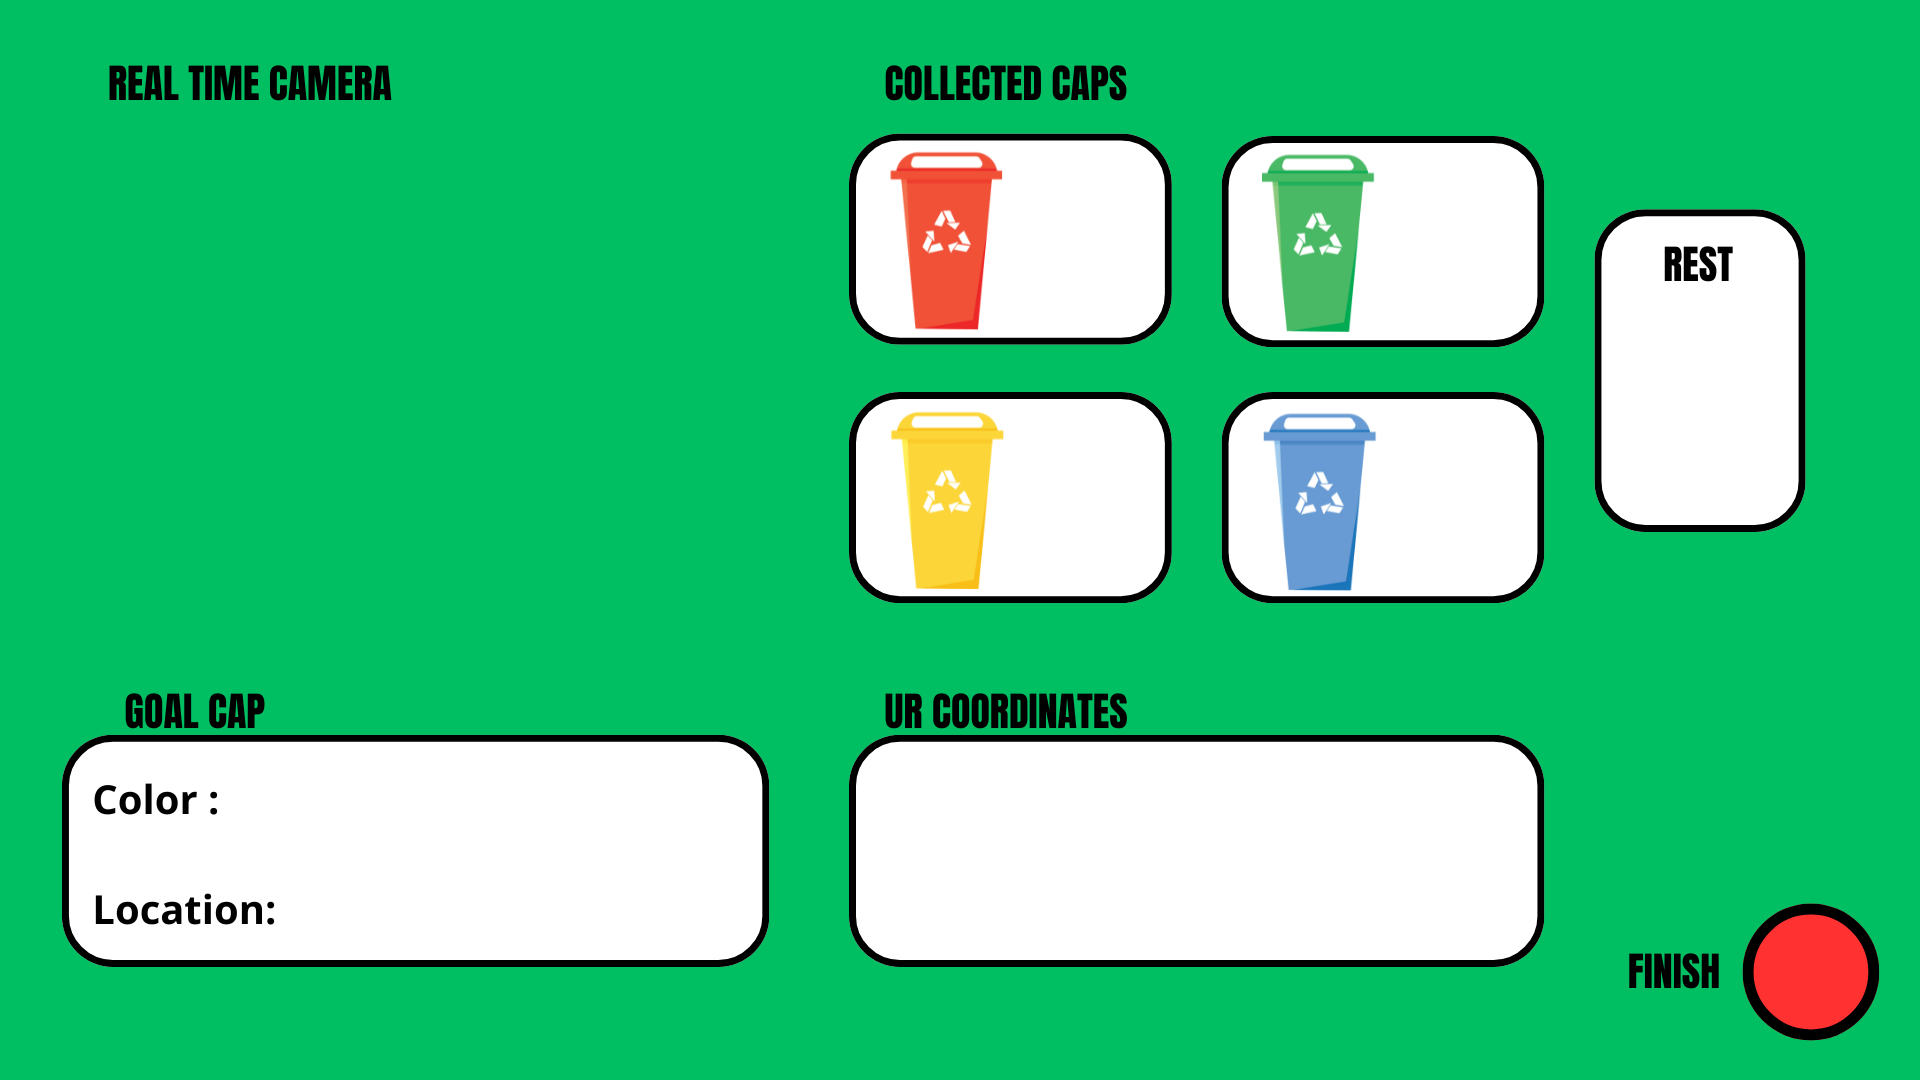
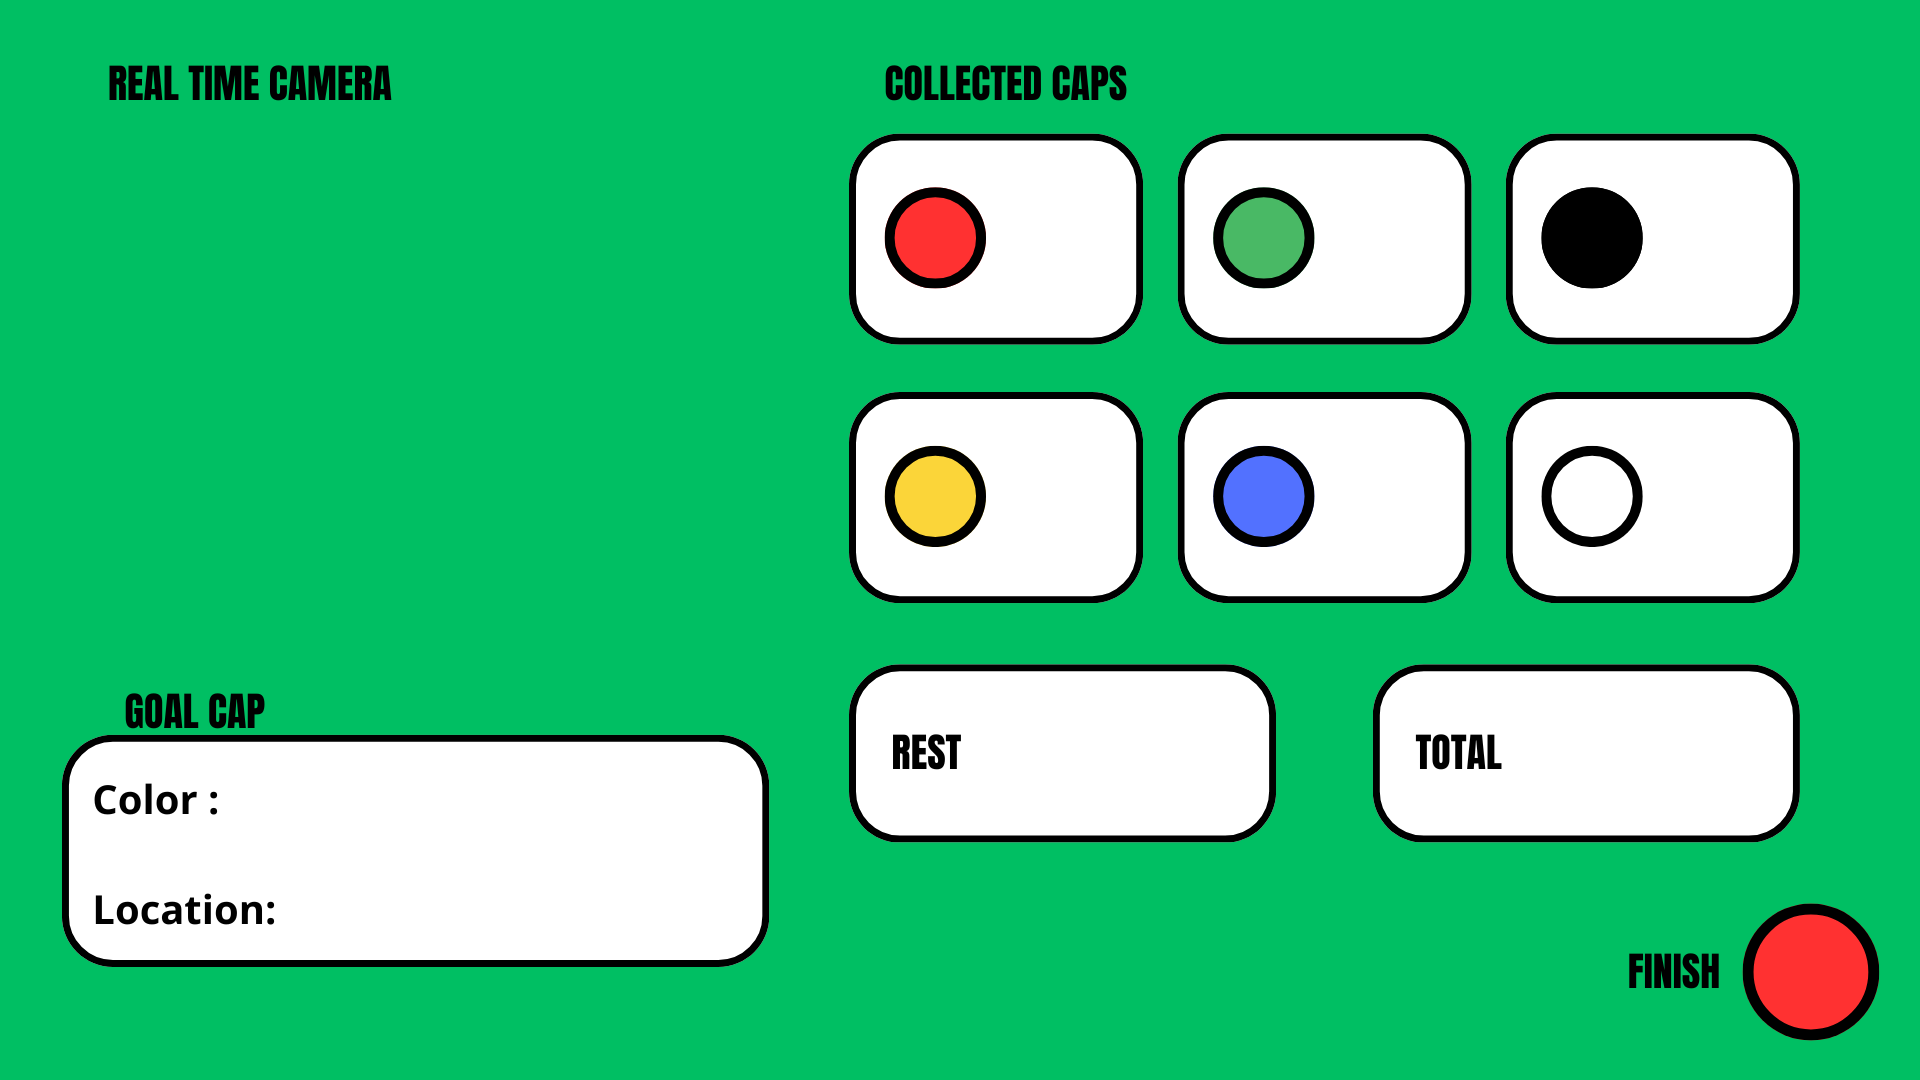
Cambios GUI

diff --git a/FinalCode/gui.py b/FinalCode/gui.py
@@ -1,18 +1,36 @@
 import sys
 import cv2
 from PyQt5.QtWidgets import (QApplication, QWidget, QStackedWidget, QLabel, QLineEdit)
-from PyQt5.QtGui import QPixmap, QPainter, QColor, QImage, QFont
+from PyQt5.QtGui import QPixmap, QPainter, QImage, QFont
 from PyQt5.QtCore import Qt, QTimer
 from typing import Tuple
 
 # ---- VALORES PREDEFINIDOS MODIFICABLES POR EL PROGRAMADOR ----
 valores = {
-    'box1': {'valor': 100, 'x': 1010, 'y': 185},
-    'box2': {'valor': 200, 'x': 1010, 'y': 425},
-    'box3': {'valor': 300, 'x': 1455, 'y': 185},
-    'box4': {'valor': 400, 'x': 1455, 'y': 425},
-    'boxColor': {'valor': 'Red', 'x': 240, 'y': 710}
+    'box1': {'valor': 0, 'x': 980, 'y': 185},
+    'box2': {'valor': 0, 'x': 980, 'y': 425},
+    'box3': {'valor': 0, 'x': 1295, 'y': 185},
+    'box4': {'valor': 0, 'x': 1295, 'y': 425},
+    'box5': {'valor': 0, 'x': 1610, 'y': 185},
+    'box6': {'valor': 0, 'x': 1610, 'y': 425},
+    'box7': {'valor': 0, 'x': 980, 'y': 665},
+    'boxSum': {'valor': 0, 'x': 1495, 'y': 665},
+    'boxColor': {'valor': 'Green', 'x': 240, 'y': 710}
 }
+
+# ---- Mapa de Clase a Color ----
+def clase_a_color(clase_str: str) -> Tuple[str, str]:
+    mapa = {
+        "Clase 0": ("Red", "#FF0000"),
+        "Clase 1": ("Red", "#FF0000"),
+        "Clase 2": ("Yellow", "#FFFF00"),
+        "Clase 3": ("Green", "#00FF00"),
+        "Clase 4": ("Blue", "#0000FF"),
+        "Clase 5": ("White", "#FFFFFF"),
+        "Clase 6": ("Black", "#000000"),
+        "Clase 7": ("Rest", "#888888"),
+    }
+    return mapa.get(clase_str, (clase_str, "#CCCCCC"))
 
 # ---- LABEL CLICKEABLE INVISIBLE ----
 class ClickableLabel(QLabel):
@@ -31,7 +49,6 @@ class StartScreen(QWidget):
         self.main_window = main_window
         self.background_image = QPixmap("resources/start.png")
 
-        # Área clickeable START (antes botón)
         self.start_button = ClickableLabel(self.start_app, self)
         self.start_button.setGeometry(470, 645, 910, 140)
 
@@ -49,7 +66,6 @@ class MainScreen(QWidget):
         self.main_window = main_window
         self.background_image = QPixmap("resources/main.png")
 
-        # Área clickeable FINISH (antes botón)
         self.finish_button = ClickableLabel(self.finish_app, self)
         self.finish_button.setGeometry(1690, 860, 110, 110)
 
@@ -66,41 +82,80 @@ class MainScreen(QWidget):
     def set_cap_info(self, centroide: Tuple[int, int], color: str):
         print(f"[INFO] Recibido centroide: {centroide}, color: {color}")
 
-        # Mostrar coordenadas del centroide en un campo (puedes crear un box específico si lo deseas)
-        self.box1.setText("100") 
-        self.box2.setText("200")
+        # Aquí se actualizarán los valores de las cajas 1 a 6 con variables externas (ejemplo aquí con 0)
+        # En un futuro reemplaza estos valores con las variables que recibas del otro script
+        valores_reales = {
+            'box1': 0,
+            'box2': 0,
+            'box3': 0,
+            'box4': 0,
+            'box5': 0,
+            'box6': 0,
+            'box7': 0
+        }
+        for box_name, valor in valores_reales.items():
+            getattr(self, box_name).setText(str(valor))
 
-        # Mostrar color en boxColor
-        self.boxColor.setText(color)
-        self.boxCoord.setText(f"({centroide[0]}, {centroide[1]})")
+        # Actualizar suma en boxSum
+        suma = sum(valores_reales.values())
+        self.boxSum.setText(str(suma))
+
+        # Traducir clase a nombre y color hexadecimal
+        nombre_color, color_hex = clase_a_color(color)
+
+        # Actualizar caja de color con color de fondo
+        self.boxColor.setText(nombre_color)
+        self.boxColor.setStyleSheet(f"""
+            background-color: transparent;
+            border: none;
+            font-size: 30px;
+        """)
+
+        # Actualizar coordenadas con formato y sin borde
+        self.boxCoord.setText(f"({centroide[0]}, {centroide[1]}) px")
 
     def create_value_boxes(self):
         font = QFont()
         font.setPointSize(20)
-        
-        for box_name, config in valores.items():
-            # Crear caja para mostrar coordenadas del centroide debajo de boxColor
-            self.boxCoord = QLineEdit(self)
-            self.boxCoord.setReadOnly(True)
-            self.boxCoord.setGeometry(valores['boxColor']['x'], valores['boxColor']['y'] + 90, 200, 80)  # Misma X, +90 en Y
-            self.boxCoord.setStyleSheet("""
-                background-color: white;
-                border: 2px solid black;
-                font-size: 30px;
-            """)
-            self.boxCoord.setFont(font)
 
+        # Crear cajas para box1 a box7 y boxSum
+        for box_name in ['box1', 'box2', 'box3', 'box4', 'box5', 'box6', 'box7', 'boxSum']:
+            config = valores[box_name]
             box = QLineEdit(self)
             box.setText(str(config['valor']))
             box.setReadOnly(True)
             box.setGeometry(config['x'], config['y'], 100, 80)
             box.setStyleSheet("""
                 background-color: white;
-                border: 2px solid black;
-                font-size: 50px;
+                border: none;
+                font-size: 30px;
             """)
             box.setFont(font)
             setattr(self, box_name, box)
+
+        # Caja adicional para coordenadas (bajo boxColor)
+        self.boxCoord = QLineEdit(self)
+        self.boxCoord.setReadOnly(True)
+        self.boxCoord.setGeometry(290, 815, 200, 80)
+        self.boxCoord.setStyleSheet("""
+            background-color: white;
+            border: none;
+            font-size: 30px;
+        """)
+        self.boxCoord.setFont(font)
+
+        # Crear caja para boxColor (color con fondo)
+        config_color = valores['boxColor']
+        self.boxColor = QLineEdit(self)
+        self.boxColor.setText(config_color['valor'])
+        self.boxColor.setReadOnly(True)
+        self.boxColor.setGeometry(config_color['x'], config_color['y'], 200, 80)
+        self.boxColor.setStyleSheet("""
+            border: none;
+            font-size: 30px;
+            color: black;
+        """)
+        self.boxColor.setFont(font)
 
     def paintEvent(self, event):
         painter = QPainter(self)
